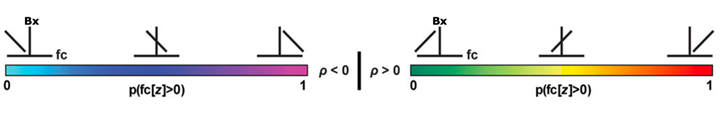
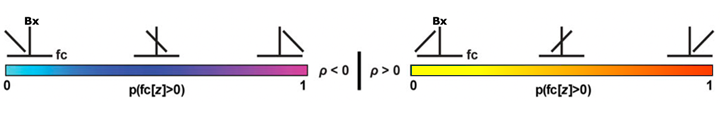
fixed brain color scale to get rid of green to red

Changed region(s): [[0.55, 0.5593, 1.0, 0.6356]]

diff --git a/+nla/+gfx/drawBrainVis.m b/+nla/+gfx/drawBrainVis.m
@@ -39,10 +39,17 @@ function drawBrainVis(edge_input_struct, input_struct, net_atlas, ctx, mesh_alph
     llimit = edge_result.coeff_range(1);
     ulimit = edge_result.coeff_range(2);
     
-    color_map = turbo();
-    color_map_n = hsv(2800);
-    color_map_n = color_map_n(1401:2400,:);
-    color_map_p = cat(1, summer(500), flip(autumn(500), 1));
+    % This is the colormap if there's no functional connectivity provided
+    color_map = parula(); % parula is a little gentler than turbo
+
+    % color_man_n = color map negative, color_man_p = color map positive
+    % the reason we've created the hsv_map and then use a subset of it is to get the deep blue -> green
+    % the closest builtin is 'cool', but that only goes teal -> green
+    hsv_map = hsv(2800); % big colormap
+    color_map_n = hsv_map(1401:2400,:); %use from the middle -> 1000
+    
+    % Luckily, 'autumn' has the colors we want for warmth
+    color_map_p = flip(autumn(1000));
     
     ROI_vals = nan(net_atlas.numROIs(), 1);
     fc_vals = nan(net_atlas.numROIs(), 1);
